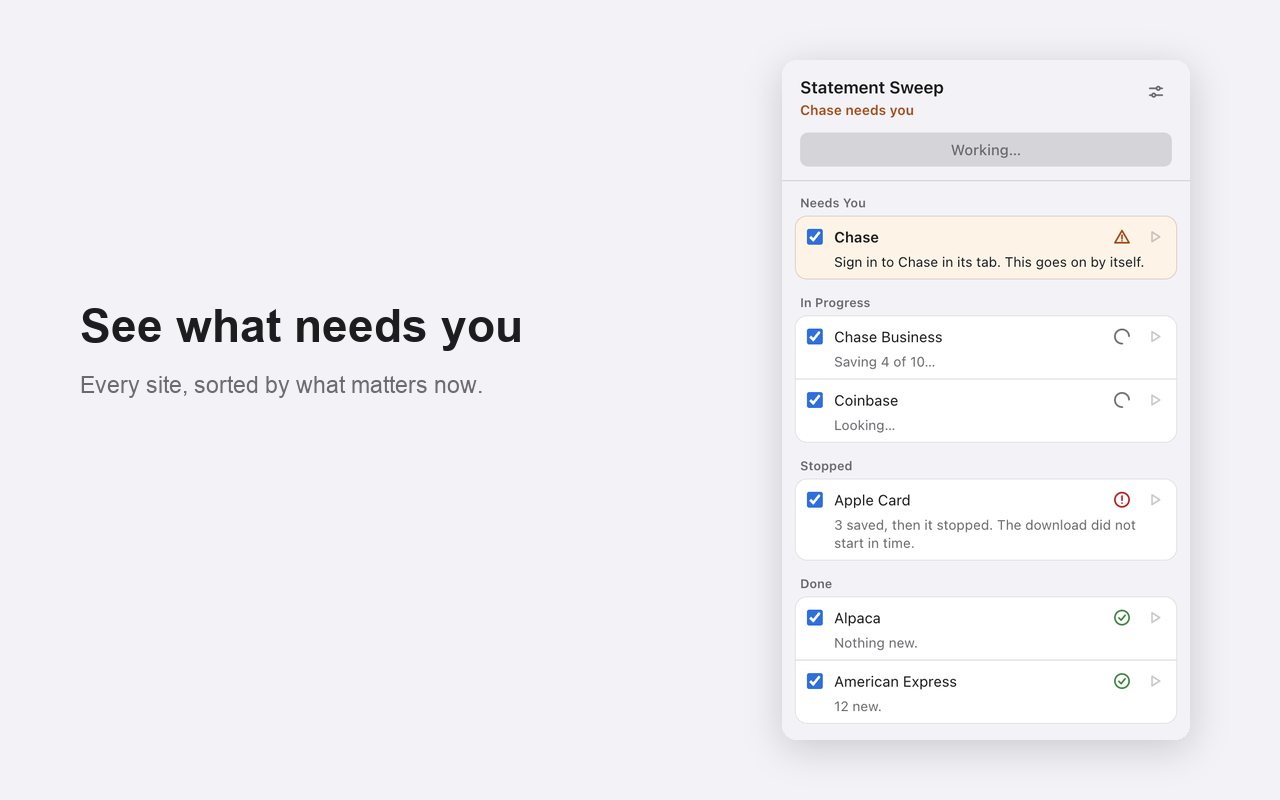
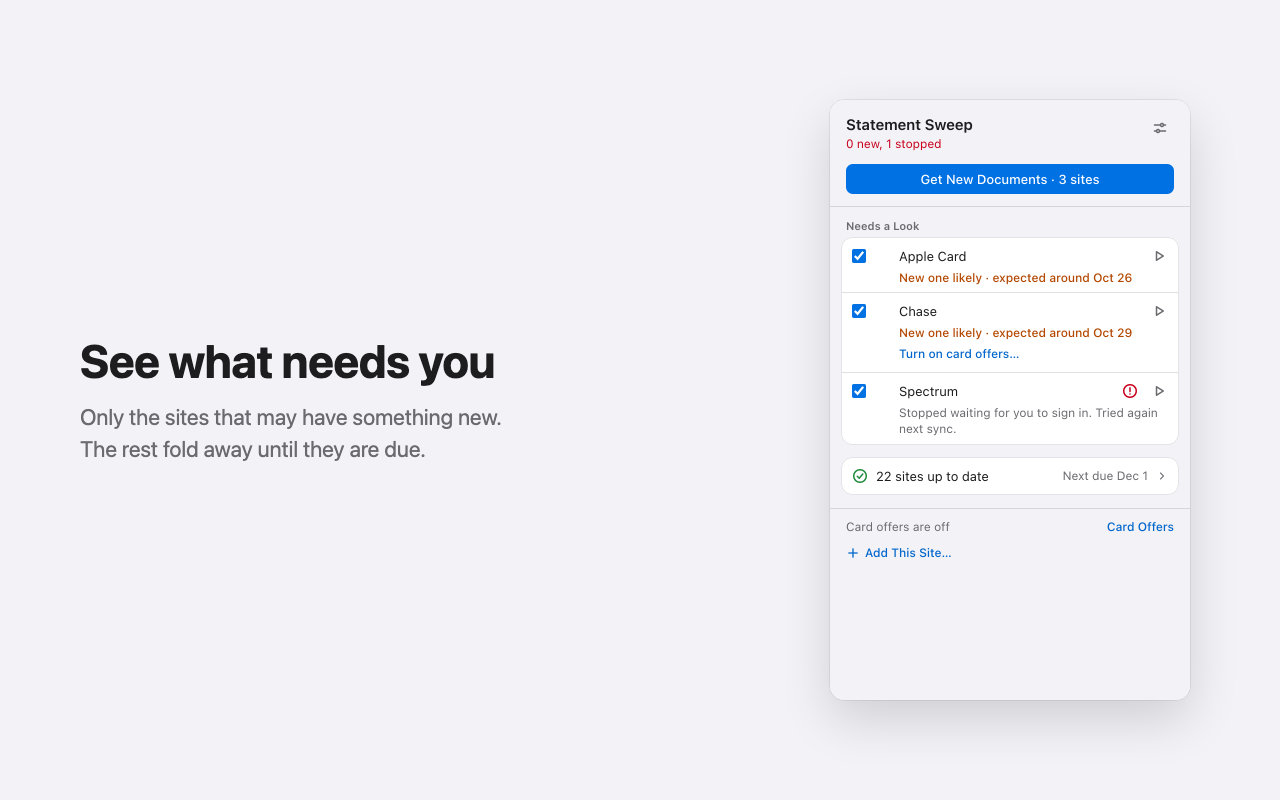
Version 0.4.0 (#10)
The changelog's Unreleased entries are now 0.4.0, dated 2026-11-10. There
are three new Chrome Web Store images, made with invented data: the popup
at rest, the popup during a sync, and Card Offers.

diff --git a/store/LISTING.md b/store/LISTING.md
@@ -56,4 +56,4 @@ https://github.com/JasperDale420/statement-sweep/blob/main/PRIVACY.md
 **Support URL:**
 https://github.com/JasperDale420/statement-sweep/issues
 
-**Store images:** `store/screenshot-1.png`, `store/screenshot-2.png` (1280 x 800). The icon is taken from the package.
+**Store images:** `store/screenshot-1.png`, `store/screenshot-2.png`, `store/screenshot-3.png` (1280 x 800), made with invented data. The icon is taken from the package.

diff --git a/CHANGELOG.md b/CHANGELOG.md
@@ -5,6 +5,8 @@ What changed for people using Statement Sweep, newest first. The version is
 
 ## Unreleased
 
+## 0.4.0 · 2026-11-10
+
 - Add This Site: teach Statement Sweep a site that is not built in, on its
   own statements page, by clicking one statement link. It finds the others
   like it, reads their dates, and the site then syncs with the rest. Chrome
